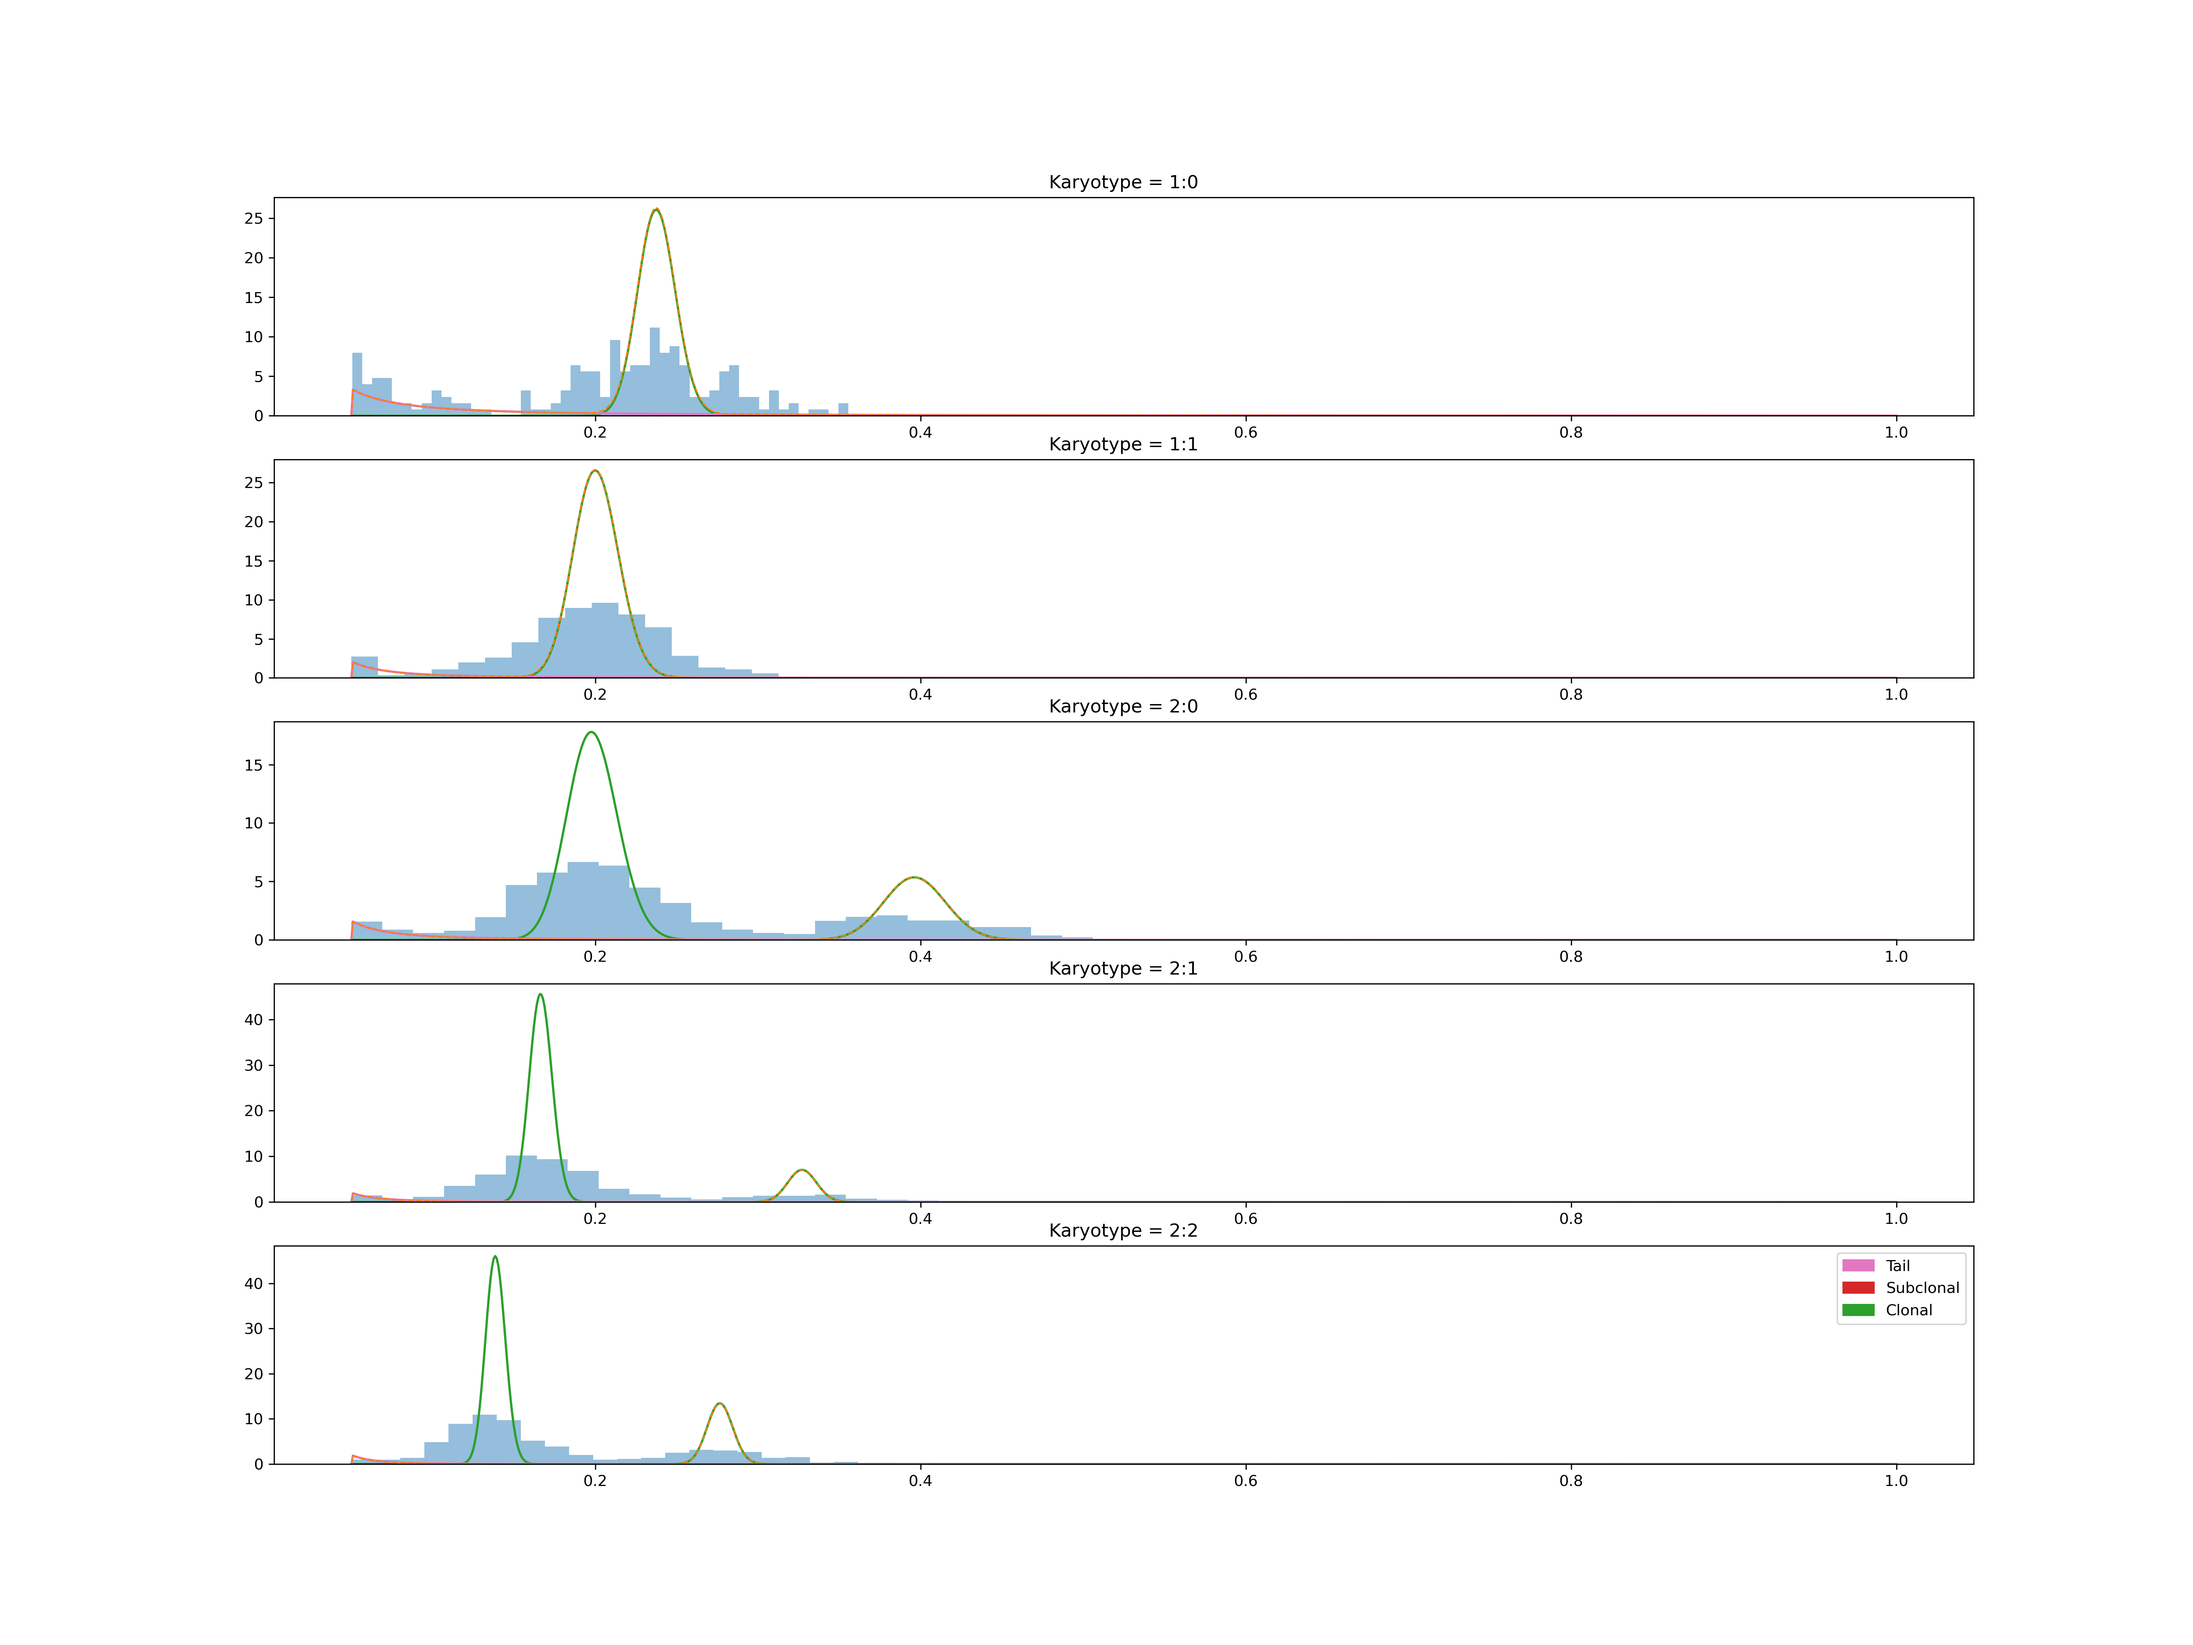
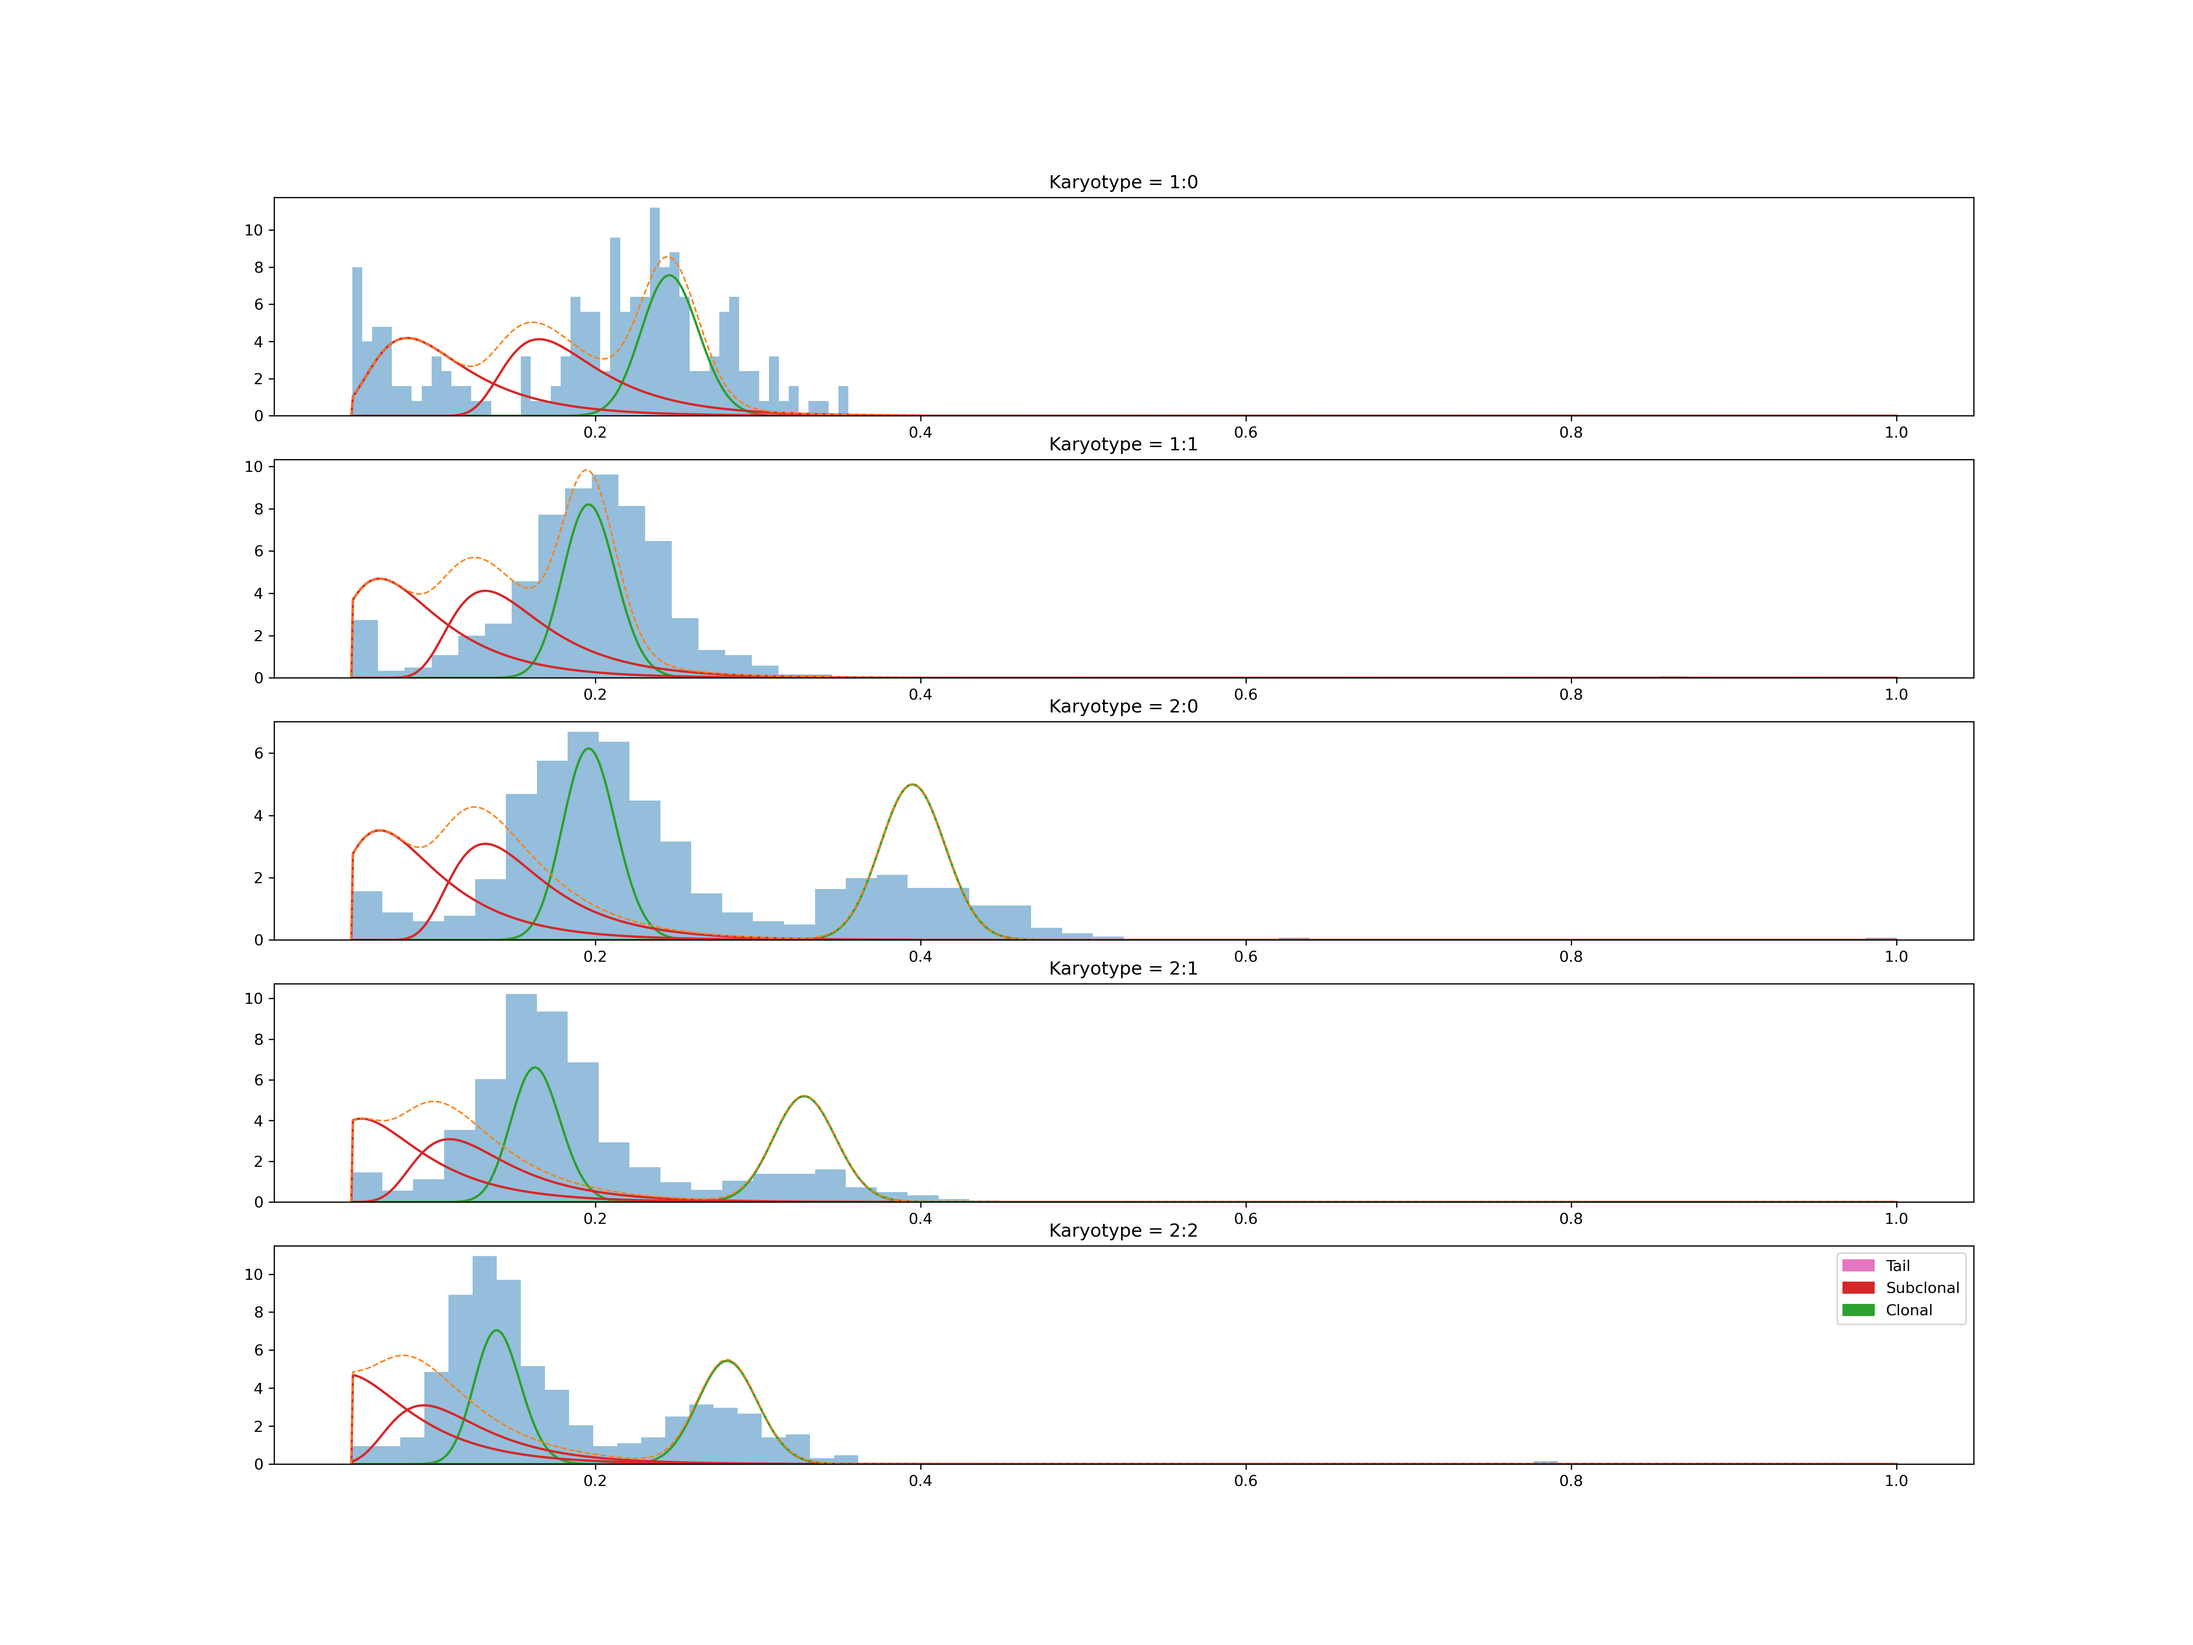
improved site 2

diff --git a/mobster/model_mobster.py b/mobster/model_mobster.py
@@ -30,9 +30,14 @@ def model(data, K=1, tail=1, truncated_pareto = True, subclonal_prior = "Moyal",
     K : int
         Number of subclonal clusters
     tail: int
-        1 if inference is to perform with Pareto tail, 0 otherwise
+        1 if inference is to be performed with Pareto tail, 0 otherwise
     truncated_pareto: bool
         True if the pareto needs to be truncated at the mean of the lowest clonal cluster
+    subclonal_prior: str
+        Distribution to use for the subclonal cluster, currently supperted "Beta" and "Moyal"
+    multi_tail: bool
+        If True each clonal subclunal cluster has its Pareto tail, beware to run it just
+        on extremely high quality data, in general prefer the False option in large-scale analysis
     purity: float
         Previously estimated purity of the tumor
     number_of_trials_clonal_mean: float

diff --git a/mobster/utils_mobster.py b/mobster/utils_mobster.py
@@ -3,6 +3,8 @@ from tqdm import trange
 import pyro
 import torch
 import numpy as np
+from scipy.signal import find_peaks
+
 
 
 theo_clonal_list = {
@@ -274,9 +276,9 @@ def scale_pareto(VAF):
 
     idx = torch.where(h_diff == v1)
 
-    best_scale = (vals[idx[0]] + vals[idx[0] + 1]) / 2
+    best_scale = vals[idx[0][0]]
 
-    if best_scale > 0.15:
-        return torch.min(VAF) - 1e-5
+    if best_scale.detach().item() > 0.15:
+        return torch.min(VAF) - 1e-10
     else:
-        return best_scale - 1e-5
+        return best_scale - 1e-10

diff --git a/mobster/example_loading.py b/mobster/example_loading.py
@@ -2,7 +2,7 @@ import pickle
 import torch
 
 def load_example_data(directory = "./"):
-    flh = open(directory + "example.pkl", "rb")
+    flh = open(directory + "example_real.pkl", "rb")
     inp = pickle.load(flh)
     inp = {k: v.float().round() for k, v in zip(inp.keys(), inp.values())}
     return inp

diff --git a/mobster/likelihood_calculation.py b/mobster/likelihood_calculation.py
@@ -200,7 +200,6 @@ def compute_likelihood_from_params_aux(data, tail, truncated_pareto, params, i, 
                                    K,
                                    NV, DP)
 
-
     if tail and (K > 0):
 
         not_neutral = torch.vstack([beta, subclonal_lk]) + \
